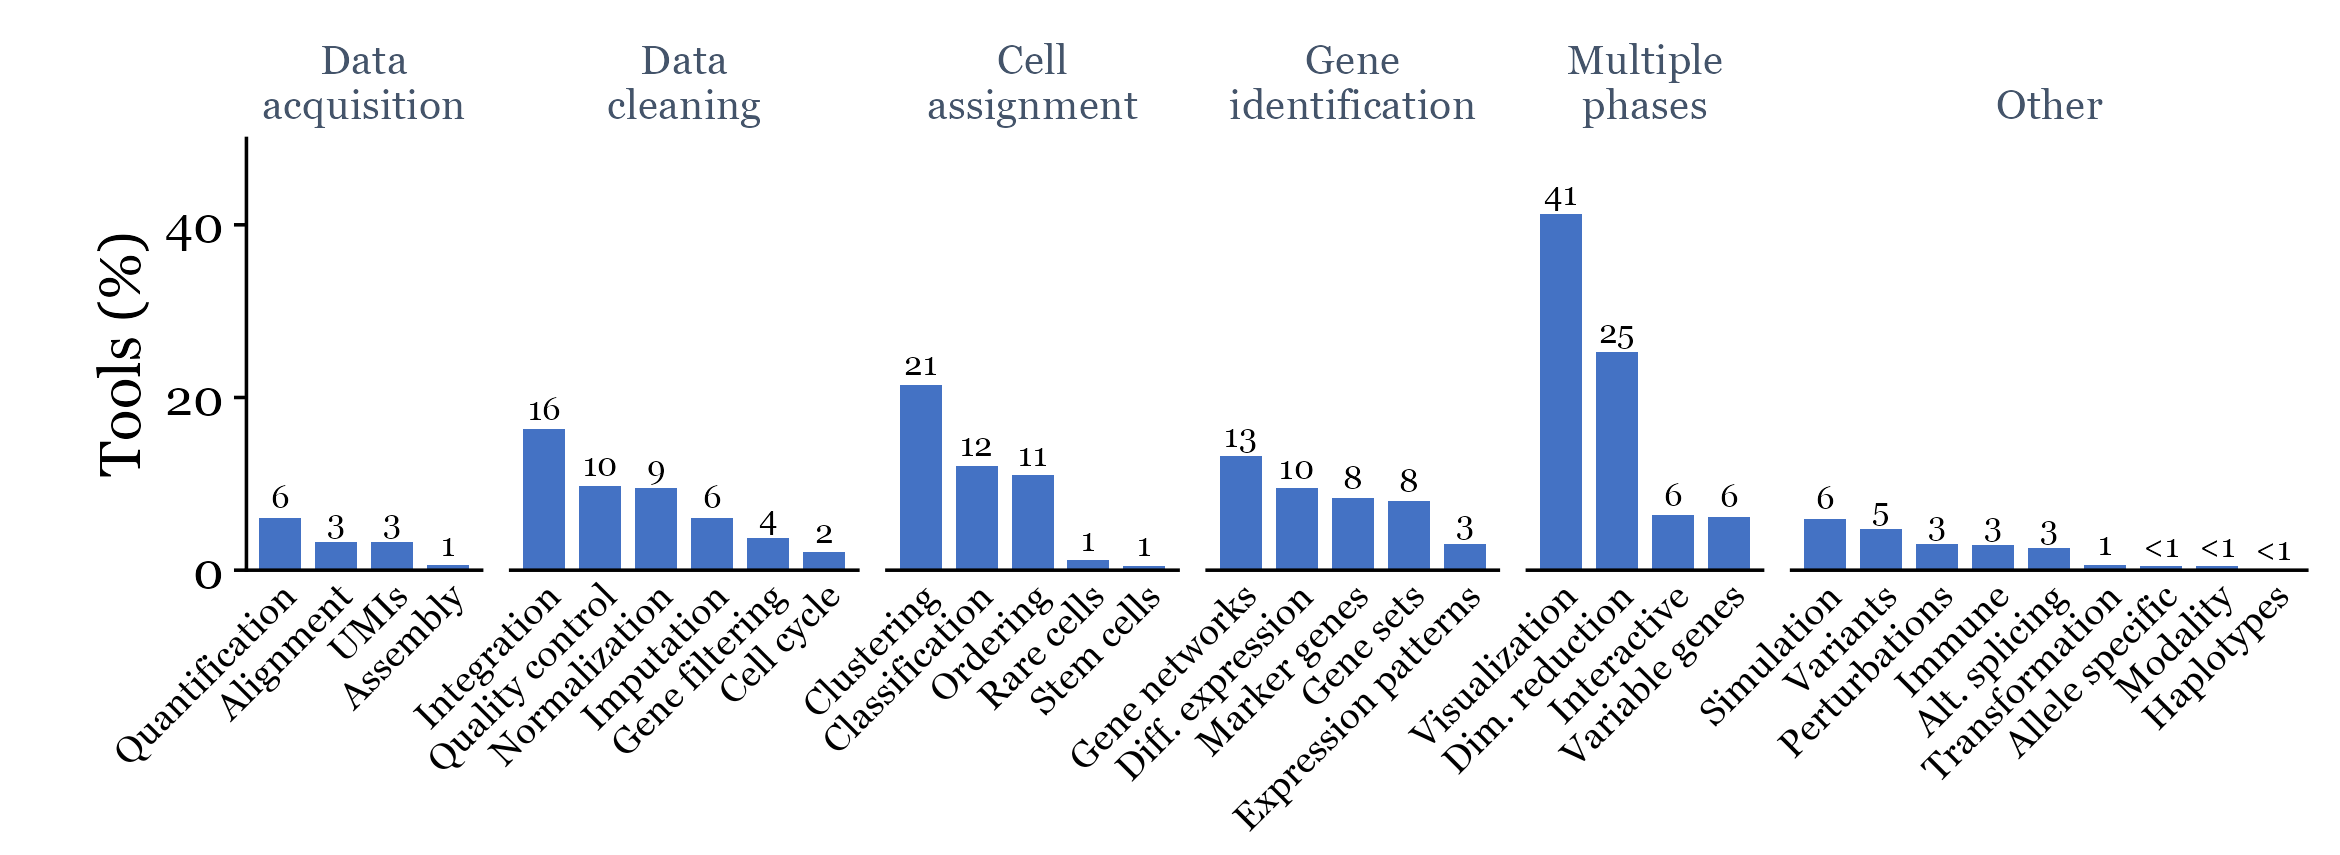
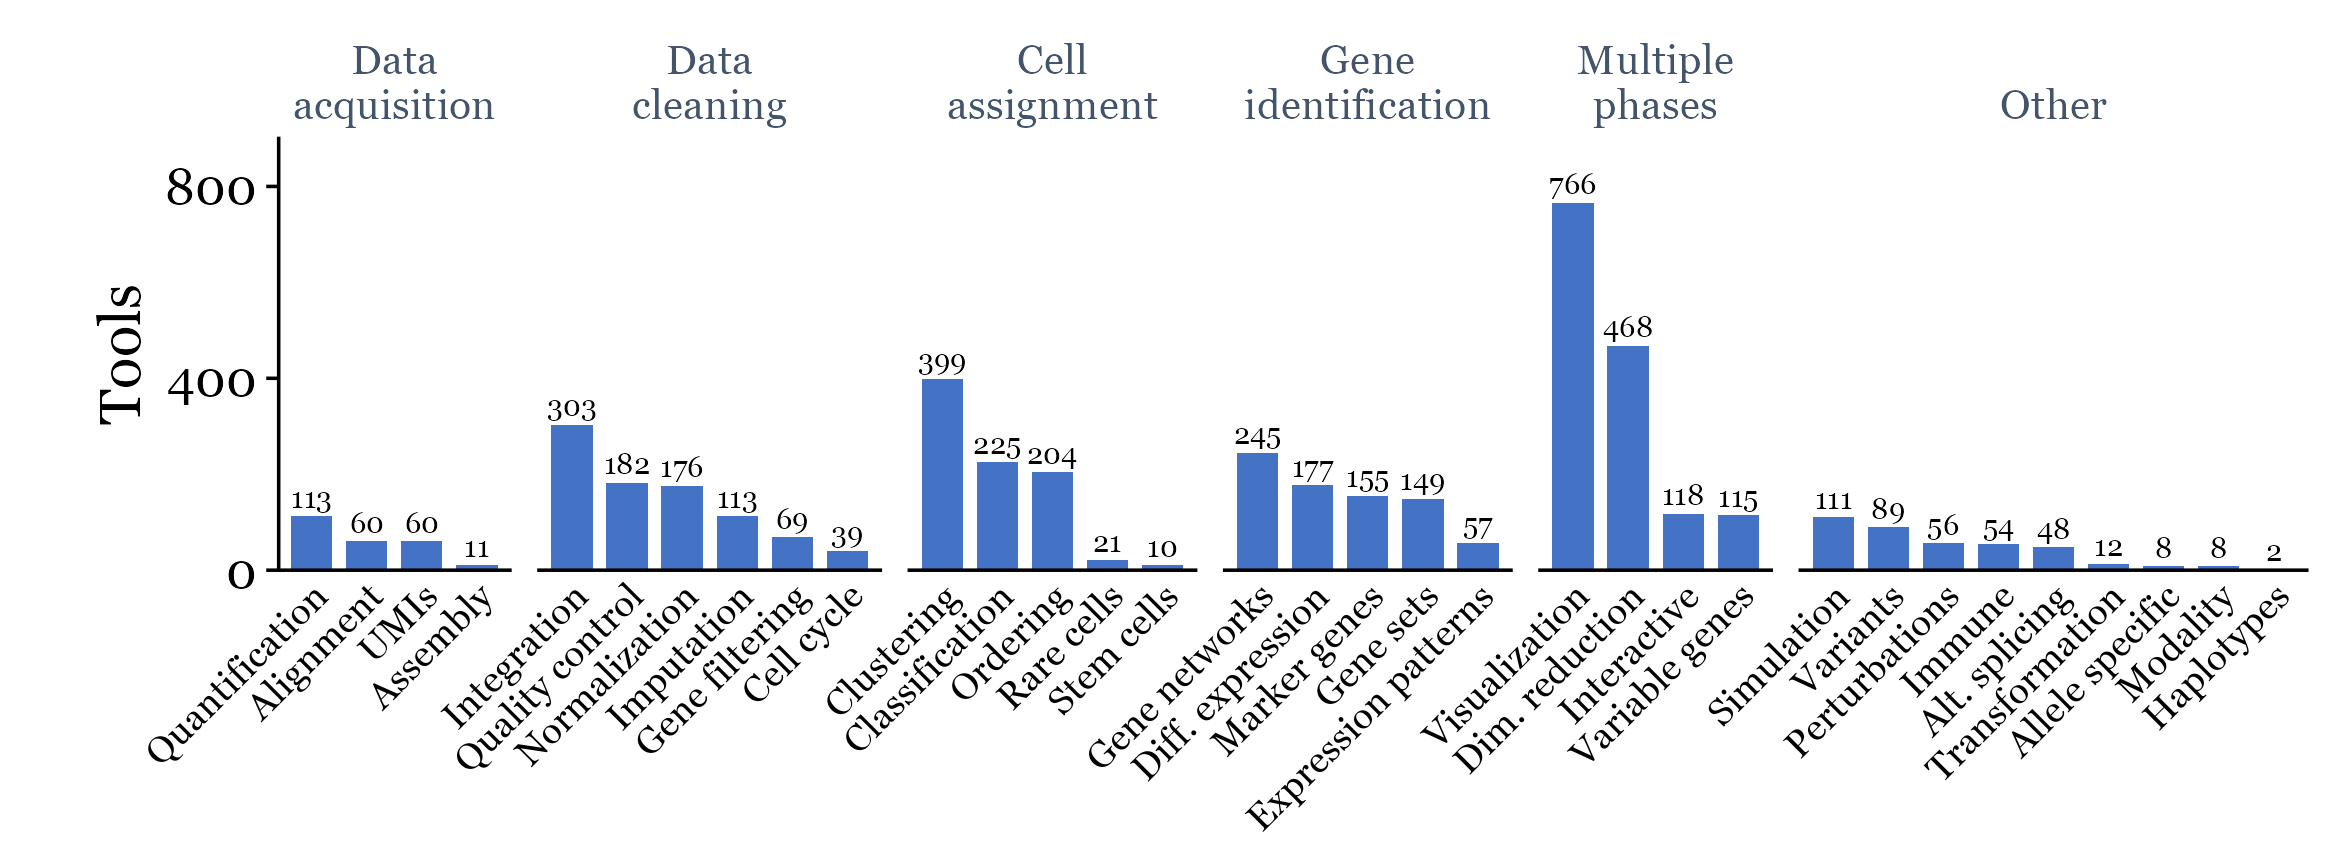
fig05b: show tool counts instead of percentages

diff --git a/NOTES.md b/NOTES.md
@@ -226,7 +226,7 @@ database has grown by about 70% since, so the paper figure is out of date.
 ### fig05b (tools per analysis category)
 
 - Same content as Fig. 1D of the paper, updated to the current database and
-  laid out horizontally (request: Chang, Nov 16): percentage of all 1,856 tools
+  laid out horizontally (request: Chang, Nov 16): number of the 1,856 tools
   assigned to each of the 33 categories, grouped by workflow phase from left
   to right. The table is `data/processed/fig05b_tools_per_category.csv`.
 - Size is 7.8 x 2.85 in, not one of the two README sizes, so that it sits
@@ -234,13 +234,13 @@ database has grown by about 70% since, so the paper figure is out of date.
 - The database only numbers the phases (Phase 1 to 4, Multiple, Other). The
   names (data acquisition, data cleaning, cell assignment, gene
   identification) are taken from the paper's figure.
-- A tool can be in several categories (4,623 assignments), so the percentages
-  do not sum to 100.
-- Most common: visualization 41%, dimensionality reduction 25%, clustering
-  21%, integration 16%.
+- Bars and labels are tool counts, not percentages (request: Chang, Nov 16);
+  the paper shows both. Percentages are in the table.
+- A tool can be in several categories (4,623 assignments), so the counts sum
+  to more than 1,856.
+- Most common: visualization 766 (41%), dimensionality reduction 468 (25%),
+  clustering 399 (21%), integration 303 (16%).
 - Category names are the database's, with spaces added and US spelling; three
   are abbreviated as in the paper (Dim., Diff., Alt.). "Ordering" is the
   database's name for trajectory or pseudotime inference.
-- Value labels are whole percentages; "<1" marks categories under 0.5%
-  (allele specific 8 tools, modality 8, haplotypes 2).
-- Style deviation: category names are 9 pt and value labels 8 pt.
+- Style deviation: category names are 9 pt and value labels 7 pt.
